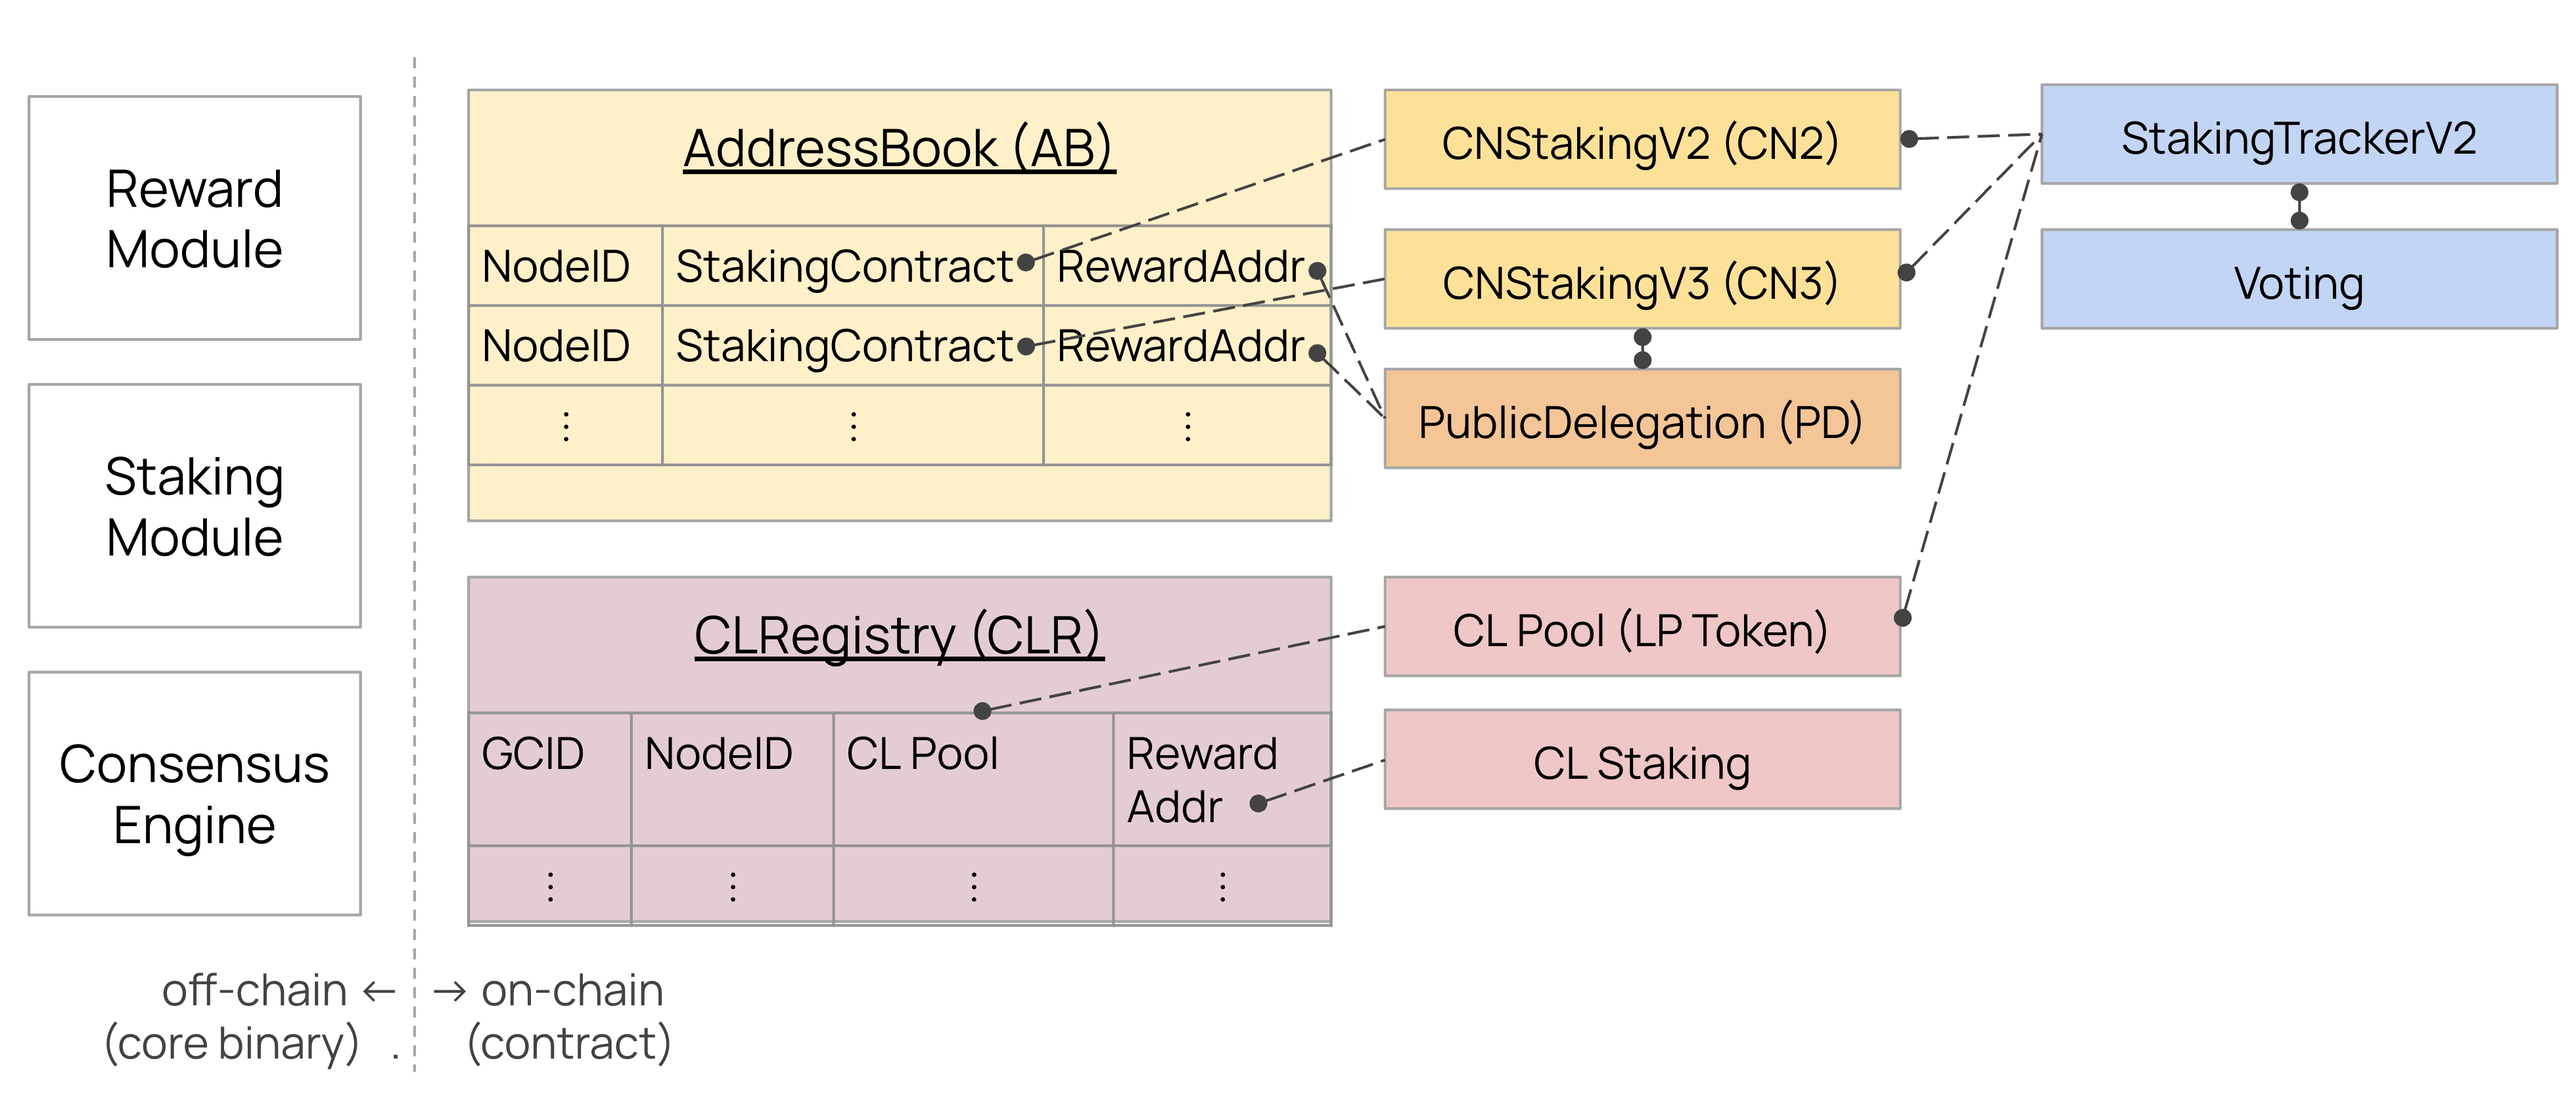
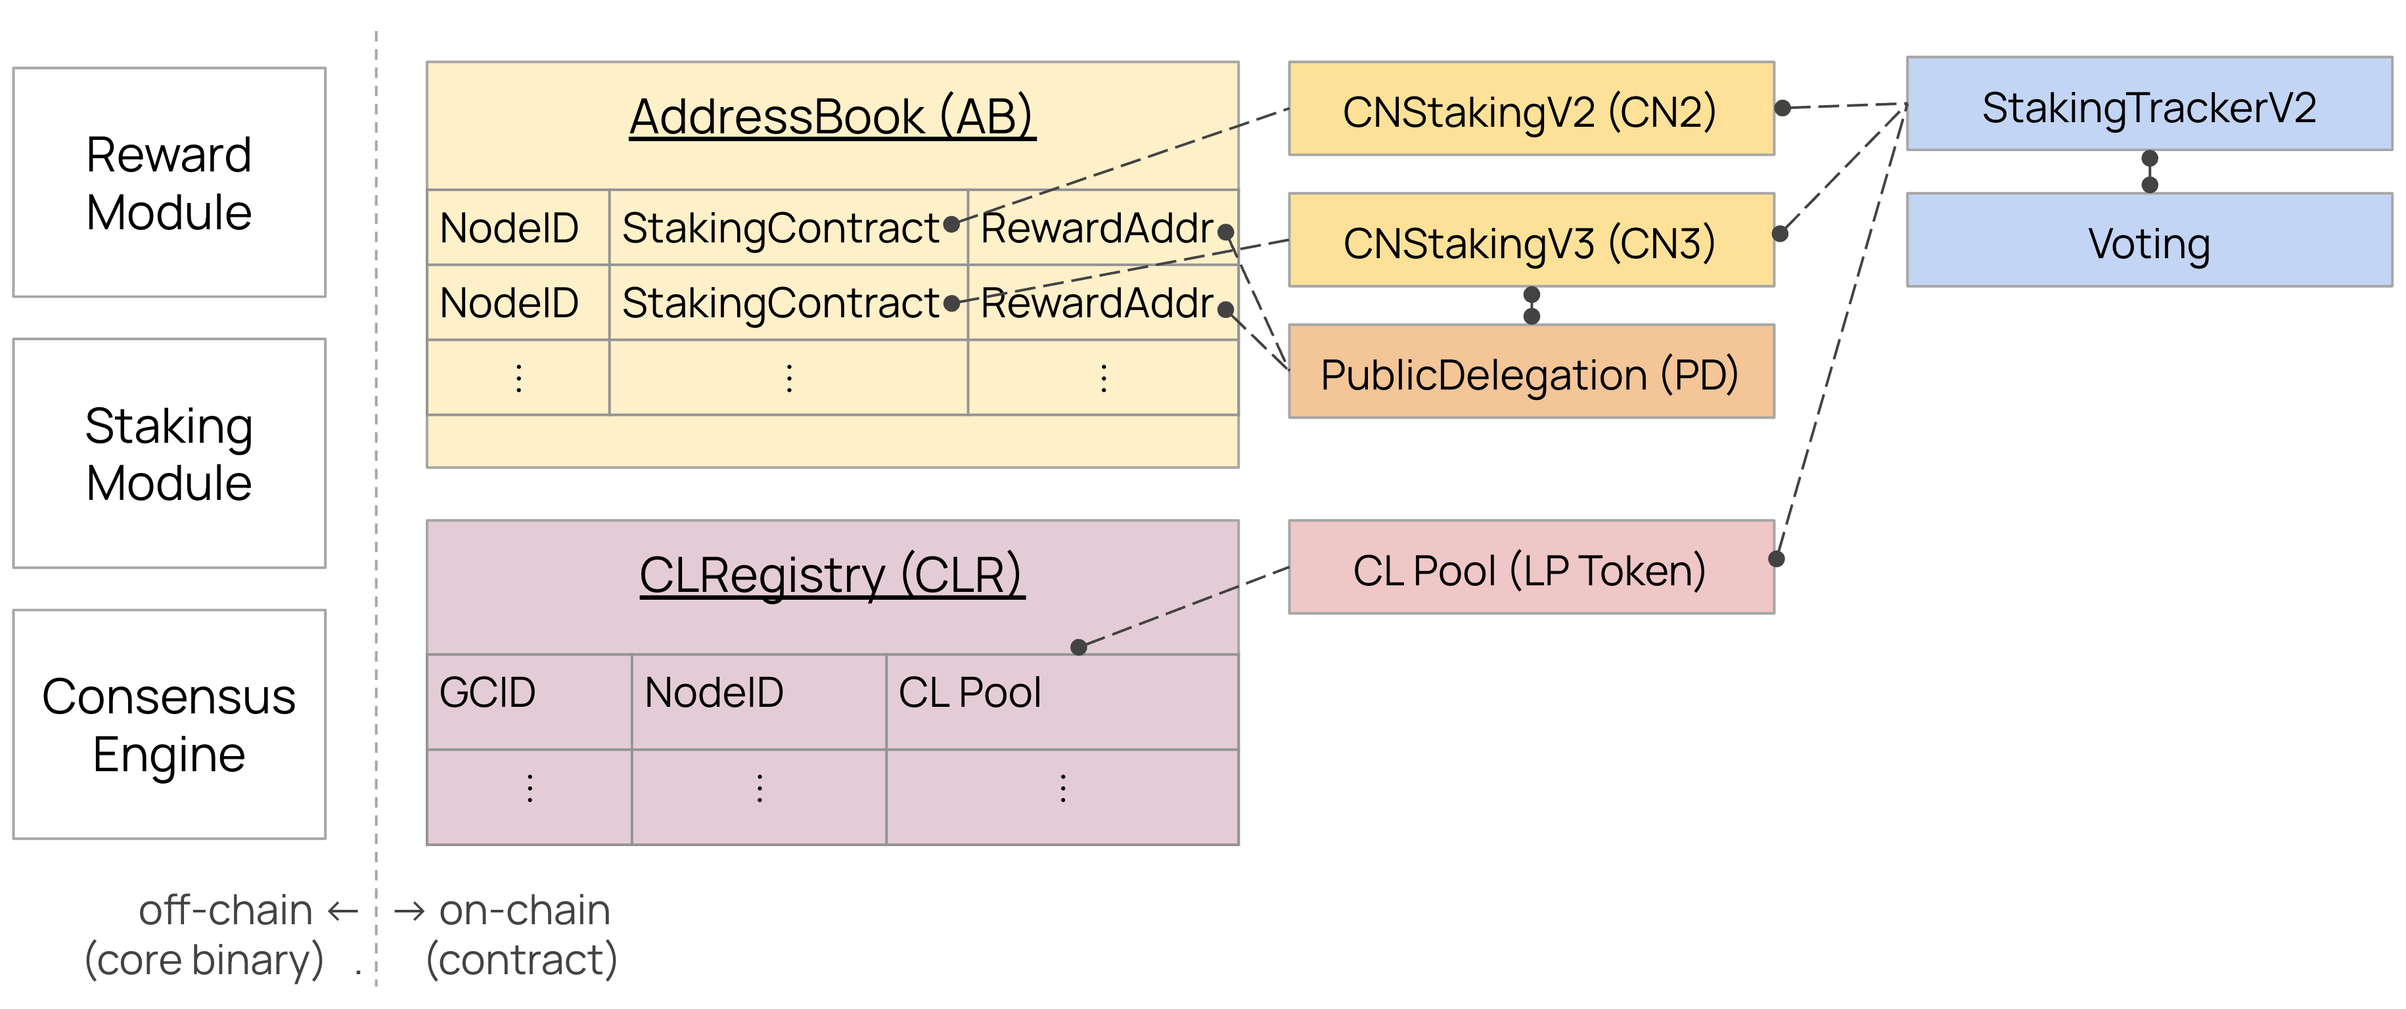
KIP-226: Reflect spec changes

Changed region(s): [[0.0, 0.0312, 0.9962, 0.9688], [0.0311, 0.125, 0.1245, 0.25], [0.0311, 0.4062, 0.1245, 0.5312]]

diff --git a/KIPs/kip-226.md b/KIPs/kip-226.md
@@ -71,7 +71,6 @@ There'll be modified and new smart contracts to be developed.
 
 - `CLRegistry`: A new registry for CLDEX. Manage the information of CLDEXs for `StakingTrackerV2` and Kaia core.
 - `CLDEX`: A new smart contract for CLDEX. It consists of router, factory, and pool.
-- `CLStaking`: A new smart contract to stake LP Token and distribute block rewards.
 - `StakingTrackerV2`: A modified [staking tracker](https://kips.kaia.io/KIPs/kip-81) to track the staked KAIA in CLDEX for the governance. The existing `StakingTracker` contract will be deprecated.
 
 The detailed information of each smart contract is described in the following sections.
@@ -97,13 +96,11 @@ interface ICLRegistry {
         uint256 gcId;
         /// @dev The address of the CLDEX pool
         address clPool;
-        /// @dev The address of the CLStaking
-        address clStaking;
     }
 
     /// @dev Returns the CL information of all registered validators
     /// @return The CL information of all registered validators
-    function getAllCLs() external view returns (address[] memory nodeIds, uint256[] memory gcIds, address[] memory clPools, address[] memory clStakings);
+    function getAllCLs() external view returns (address[] memory nodeIds, uint256[] memory gcIds, address[] memory clPools);
 }
 ```
 
@@ -131,21 +128,18 @@ For example:
 
 ### CLDEX
 
-The CLDEX is a decentralized exchange on Kaia for consensus liquidity based on UniswapV2's CPMM model and implementation. The liquidity providers (LPs) deposit KAIA and CL Token in the CLDEX and earn swap fees and block rewards. It consists of router, factory, pool and staking contracts.
+The CLDEX is a decentralized exchange on Kaia for consensus liquidity based on UniswapV2's CPMM model and implementation. The liquidity providers (LPs) deposit KAIA and CL Token in the CLDEX and earn swap fees and block rewards. It consists of router, factory, pool contracts.
 
 ![CLDEX Overview](../assets/kip-226/KIP-226-2.png)
 
 #### Staking Requirements
 
-1. All LP tokens in CLDEX MUST be subject to a minimum staking period of 7 days from the moment of provision, without exception. This differs from the traditional CnStaking withdrawal process as:
+- All LP tokens in CLDEX MUST be subject to a minimum staking period of 7 days from the moment of provision, without exception. This differs from the traditional CnStaking withdrawal process as:
 
-   - The 7-day period begins automatically upon LP token creation
-   - No separate withdrawal request is required
-   - Additional staking or partial withdrawal is allowed but it'll reset the 7-day period
-
-2. There are separate steps needed for staking and unstaking.
-   - Providing LP Token leads to staking automatically.
-   - Unstaking LP Token leads to removing liquidity automatically.
+  - The 7-day period begins automatically upon LP token creation
+  - No separate withdrawal request is required
+  - Additional staking or partial withdrawal is allowed but it'll reset the 7-day period
+  - The transfer of LP Token leads to resettlement of the 7-day period of the sender
 
 It makes the calculation of the staked KAIA in CLDEX more easier since the all KAIA in CLDEX can be considered as staked.
 
@@ -161,7 +155,7 @@ It makes the calculation of the staked KAIA in CLDEX more easier since the all K
 
 #### Block Rewards
 
-The CLDEX will receive block rewards from the Kaia core for contributing to the consensus. Note that the block rewards will be directly injected into the CLStaking contract, similar to the [Public Delegation](https://kips.kaia.io/KIPs/kip-163) contract.
+The CLDEX will receive block rewards from the Kaia core for contributing to the consensus. Note that the block rewards will be directly injected into the CLPair (CLPool) contract, similar to the [Public Delegation](https://kips.kaia.io/KIPs/kip-163) contract.
 
 1. Block rewards for CLDEX SHALL be distributed based on:
    - The proportional LP Token of each staker
@@ -175,14 +169,13 @@ As `CnStaking` notifies its staked KAIA changes to `StakingTracker`, the CLDEX m
 - `CLDEX.mint`: Used when providing liquidity
 - `CLDEX.burn`: Used when removing liquidity
 - `CLDEX.swap`: Used when swapping tokens
-- `CLDEX.skim`: Used when skimming tokens
 
 #### Commission
 
 CLDEX commissions are derived from two sources:
 
 1. Swap fees from CLPool
-2. Block rewards from CLStaking
+2. Block rewards from CLPool
 
 **Swap Fee Commission**:
 
@@ -255,12 +248,10 @@ The new field `clStakingInfo` will be added to the response of `kaia_getStakingI
       clStakingInfos: [{
             clNodeId: "0x4e37f45ab0385782afbbc713f4b0d5f936ba2201",
             clPoolAddr: "0x07987c97befca39f6fcf884271cc65f85d8d1a5b",
-            clRewardAddr: "0x10fd8bf375208e62077016d58329d2986eed45ce",
             clStakingAmount: 5000000
       }, {
             clNodeId: "0x681f56e59003172201d155ca8a5dbe0ad0993641",
             clPoolAddr: "0xe1f42e74dbf400affd54553a7c258b88ab3e2a8f",
-            clRewardAddr: "0x7b056bafbddb86de6090afb572880d34451a46d0",
             clStakingAmount: 10000000
       }],
       councilNodeAddrs: ["0x4e37f45ab0385782afbbc713f4b0d5f936ba2201", "0x681f56e59003172201d155ca8a5dbe0ad0993641", "0x7fcd59726eb6560f385c195ff33db9385aadf644", "0x15245589f68c14690cbcc3131256aeb594a006f7"],
